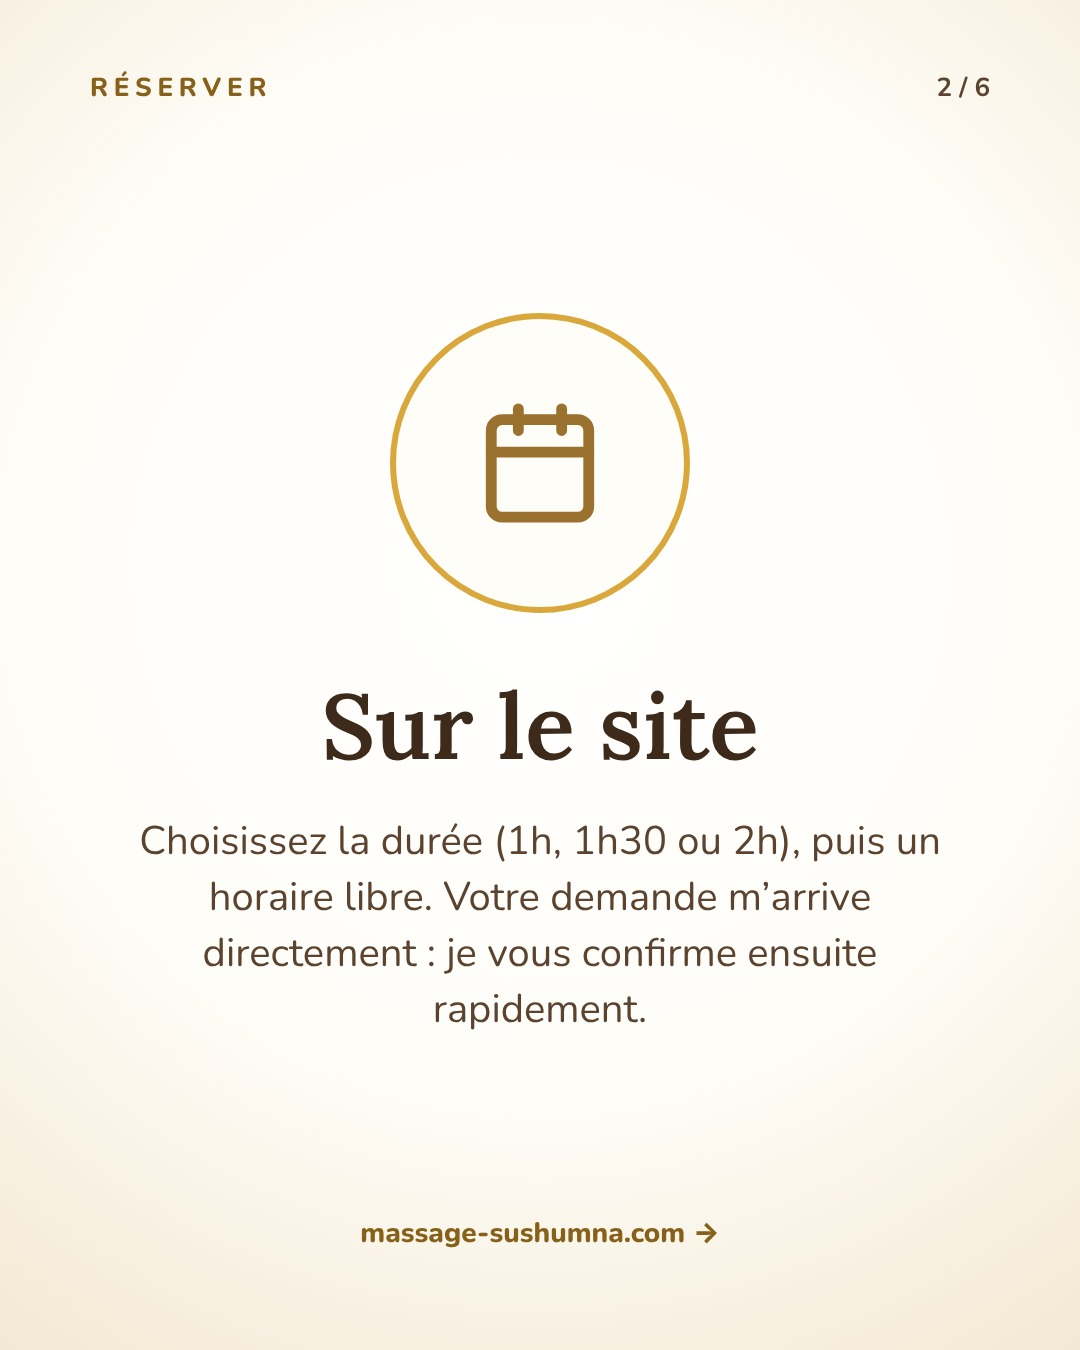
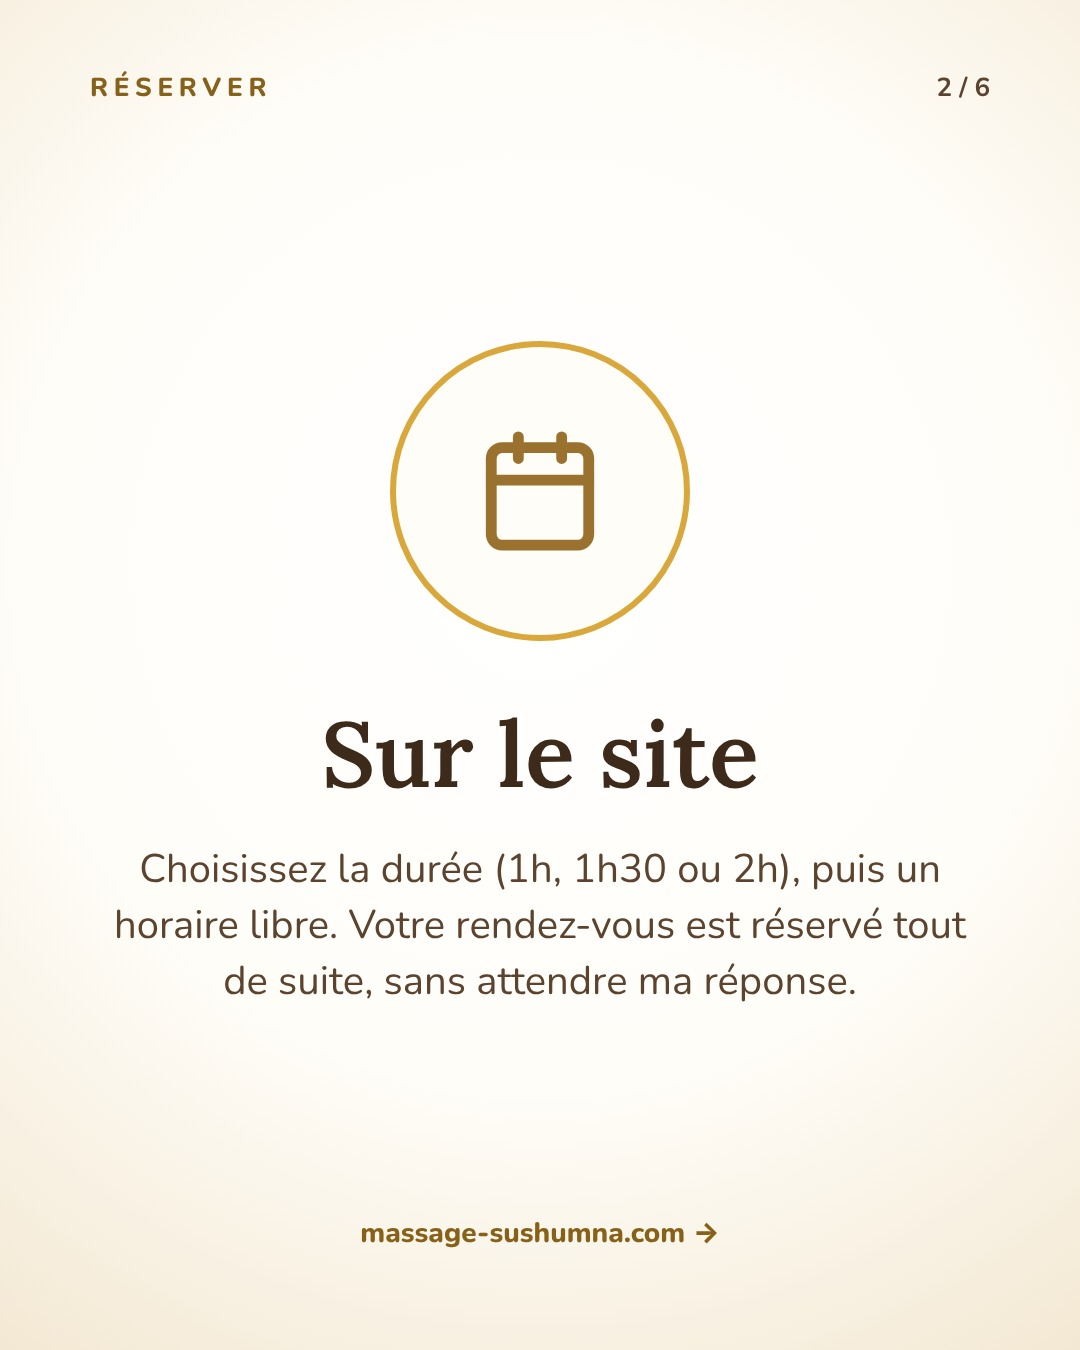
Carrousel réservation : réservation immédiate sur le site, et non plus une demande
Claude-Session: https://claude.ai/code/session_01FhKW6d7NffjTyYvYf6zG3G

Changed region(s): [[0.1222, 0.2178, 0.8861, 0.7778]]

diff --git a/graphisme/generer.js b/graphisme/generer.js
@@ -454,7 +454,7 @@ contenuMassages.forEach((m, i) => {
 /* ---------- 44 à 49. Carrousel « Comment réserver » (1080 × 1350) ---------- */
 const CARROUSEL_RESERVER = [
   { nom: 'couverture' },
-  { titre: 'Sur le site', icone: 'calendrier', texte: 'Choisissez la durée (1h, 1h30 ou 2h), puis un horaire libre. Votre demande m’arrive directement : je vous confirme ensuite rapidement.', pied: CONTACT.site },
+  { titre: 'Sur le site', icone: 'calendrier', texte: 'Choisissez la durée (1h, 1h30 ou 2h), puis un horaire libre. Votre rendez-vous est réservé tout de suite, sans attendre ma réponse.', pied: CONTACT.site },
   { titre: 'Par WhatsApp', icone: 'whatsapp', texte: `Écrivez-moi au ${CONTACT.tel}. Nous choisissons ensemble le jour et l’heure qui vous conviennent.`, pied: CONTACT.tel },
   { titre: 'Par téléphone', icone: 'tel', texte: `Appelez-moi au ${CONTACT.tel}. C’est le plus rapide pour un rendez-vous dans les 24 h.`, pied: CONTACT.tel },
   { titre: 'Sur Instagram', icone: 'instagram', texte: `Envoyez-moi un message privé sur ${CONTACT.insta}.`, pied: CONTACT.insta },
@@ -486,7 +486,7 @@ CARROUSEL_RESERVER.forEach((diapo, i) => {
     nom = `${numero}-carrousel-reserver-fin`;
     corps = `<div class="haut"><span class="surtitre">Réserver</span><span class="compteur">${compteur}</span></div>
 <h1 class="titre">Une question avant de réserver&nbsp;?</h1>
-<p class="texte" style="margin-bottom:60px">Écrivez-moi ou appelez-moi, je vous réponds avec plaisir. Je vous confirme ensuite rapidement votre rendez-vous.</p>
+<p class="texte" style="margin-bottom:60px">Écrivez-moi ou appelez-moi, je vous réponds avec plaisir.</p>
 <img src="../assets/logo-hd.png" alt="Sushumna" style="width:520px;height:auto">
 <p class="pied">${CONTACT.site}</p>`;
   } else {

diff --git a/graphisme/sources/45-carrousel-reserver-sur-le-site.html b/graphisme/sources/45-carrousel-reserver-sur-le-site.html
@@ -49,7 +49,7 @@ body{width:var(--w);height:var(--h);overflow:hidden;background:var(--creme);colo
 <div class="page"><div class="haut"><span class="surtitre">Réserver</span><span class="compteur">2 / 6</span></div>
 <div class="rond"><svg class="ico" aria-hidden="true"><use href="#calendrier"/></svg></div>
 <h1 class="titre">Sur le site</h1>
-<p class="texte">Choisissez la durée (1h, 1h30 ou 2h), puis un horaire libre. Votre demande m’arrive directement : je vous confirme ensuite rapidement.</p>
+<p class="texte">Choisissez la durée (1h, 1h30 ou 2h), puis un horaire libre. Votre rendez-vous est réservé tout de suite, sans attendre ma réponse.</p>
 <p class="pied">massage-sushumna.com →</p></div>
 </body>
 </html>

diff --git a/graphisme/sources/49-carrousel-reserver-fin.html b/graphisme/sources/49-carrousel-reserver-fin.html
@@ -48,7 +48,7 @@ body{width:var(--w);height:var(--h);overflow:hidden;background:var(--creme);colo
 </svg>
 <div class="page"><div class="haut"><span class="surtitre">Réserver</span><span class="compteur">6 / 6</span></div>
 <h1 class="titre">Une question avant de réserver&nbsp;?</h1>
-<p class="texte" style="margin-bottom:60px">Écrivez-moi ou appelez-moi, je vous réponds avec plaisir. Je vous confirme ensuite rapidement votre rendez-vous.</p>
+<p class="texte" style="margin-bottom:60px">Écrivez-moi ou appelez-moi, je vous réponds avec plaisir.</p>
 <img src="../assets/logo-hd.png" alt="Sushumna" style="width:520px;height:auto">
 <p class="pied">massage-sushumna.com</p></div>
 </body>
